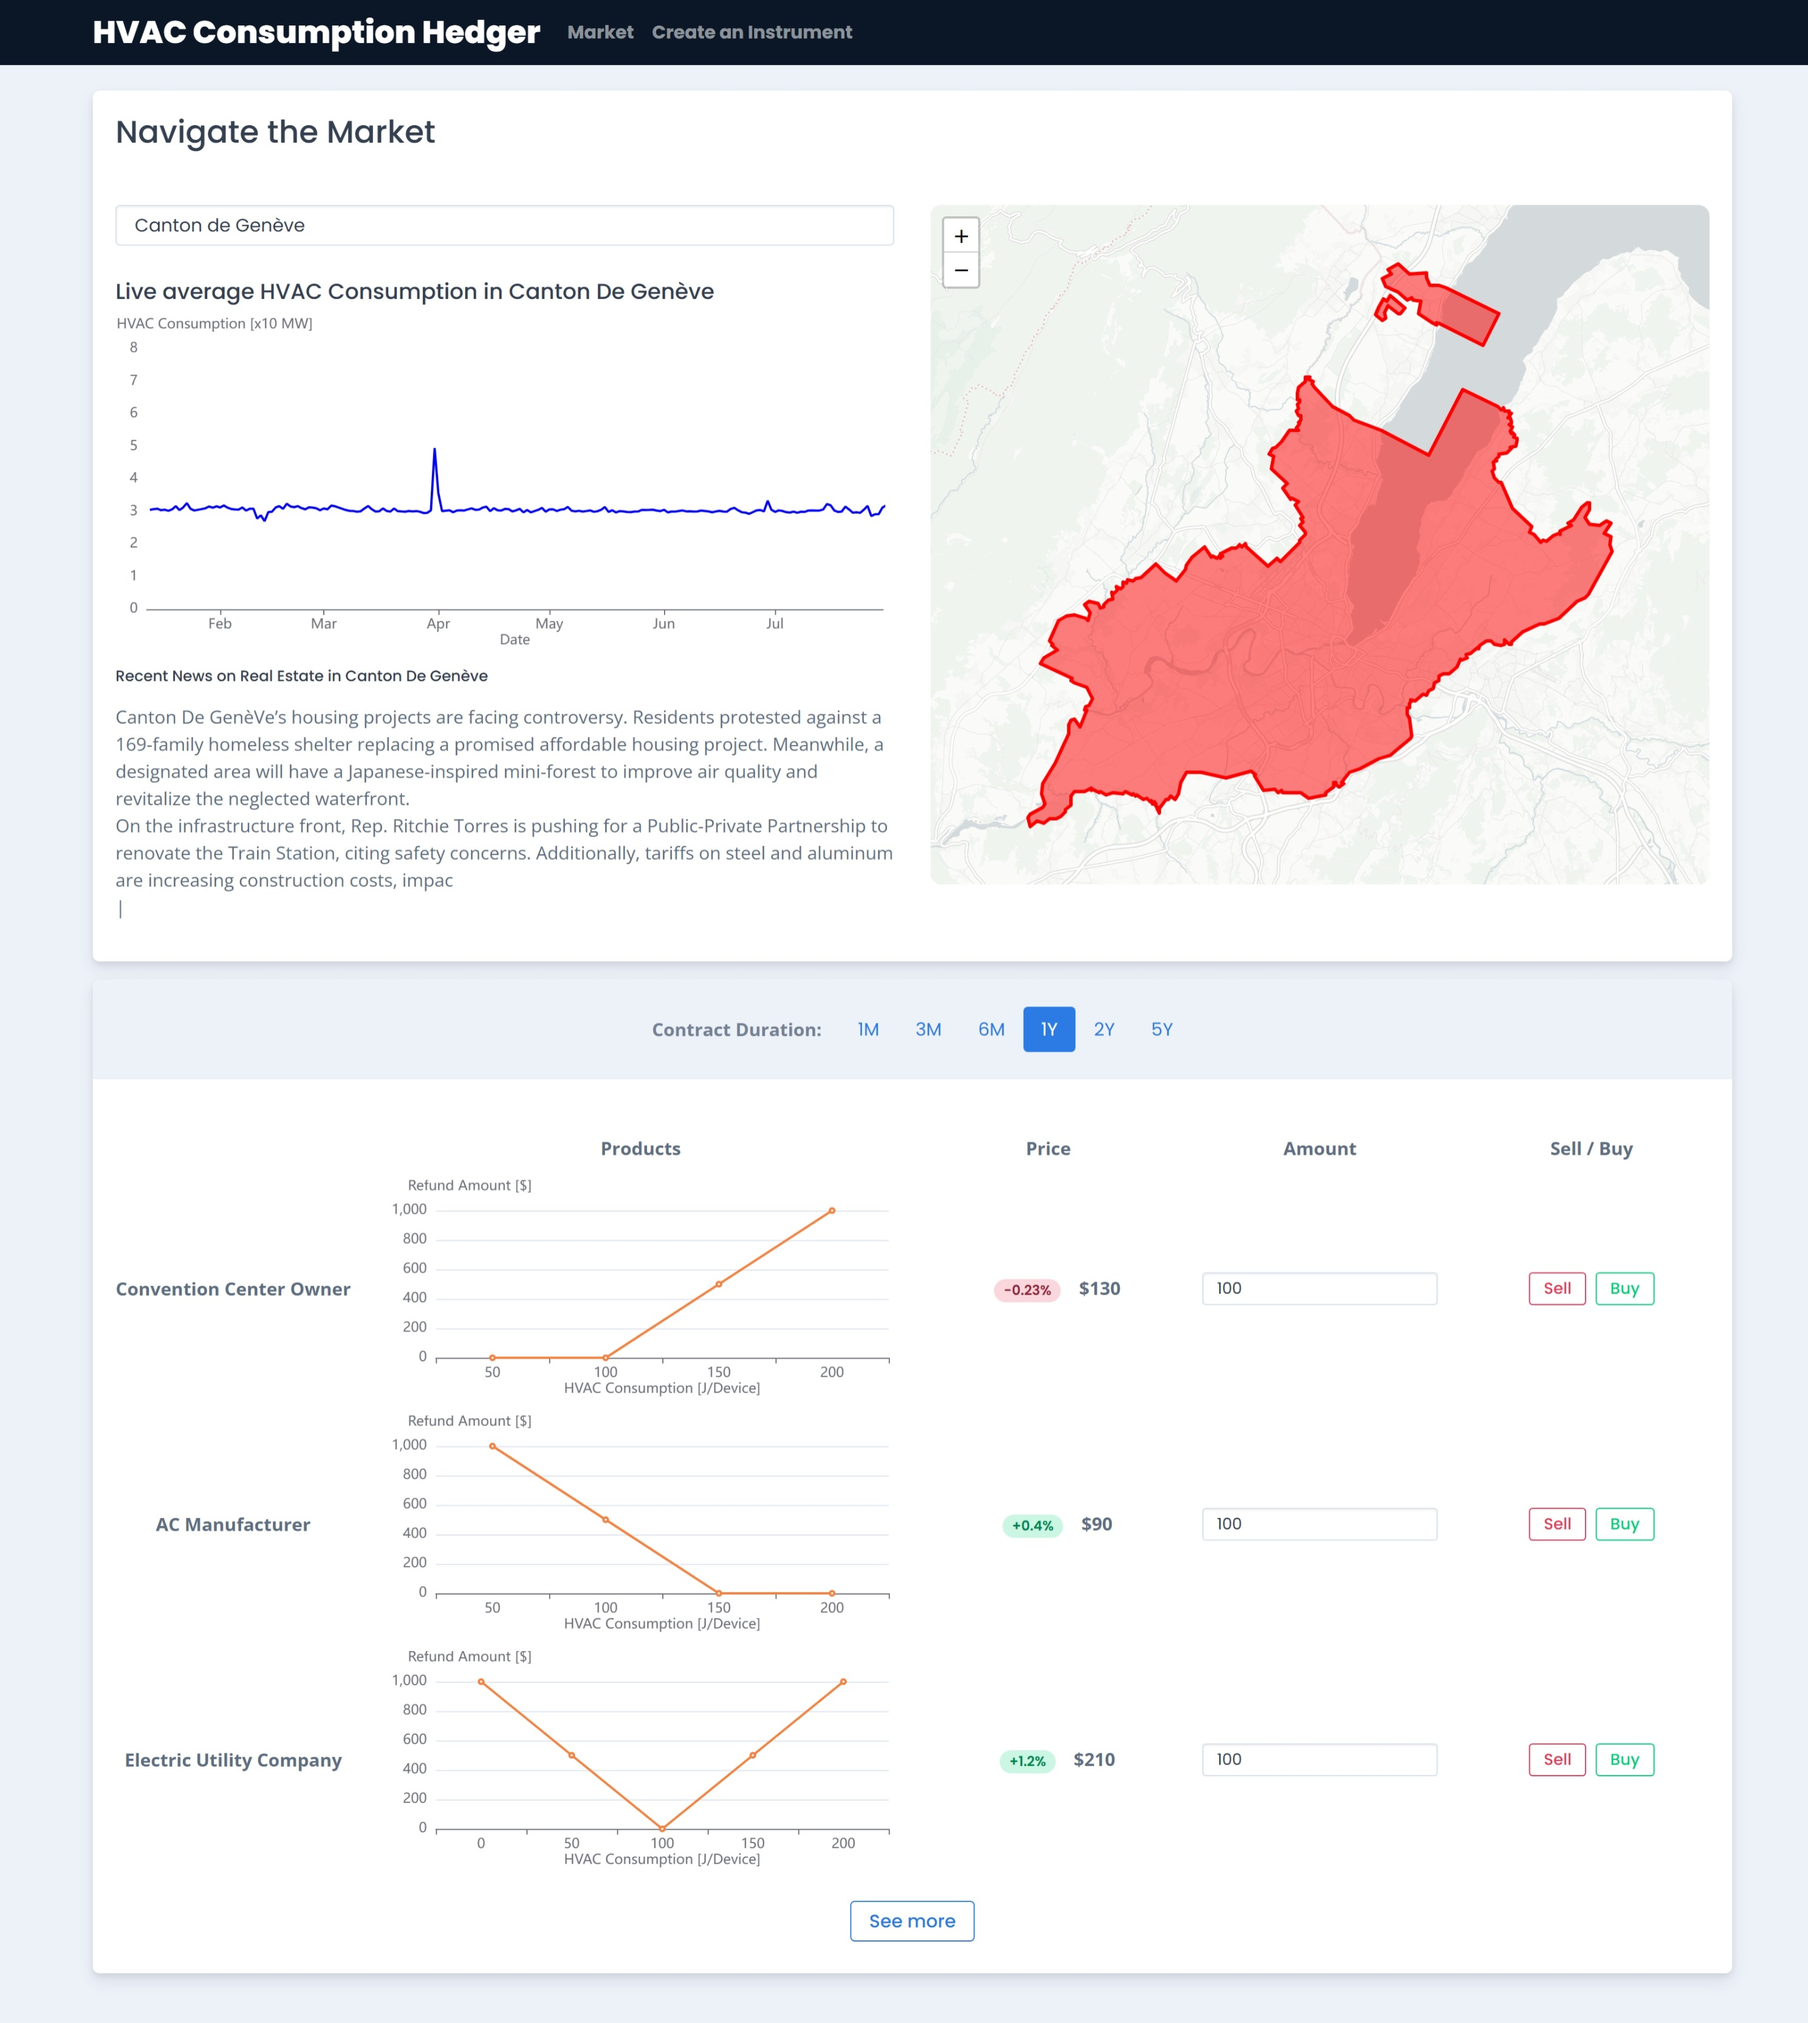
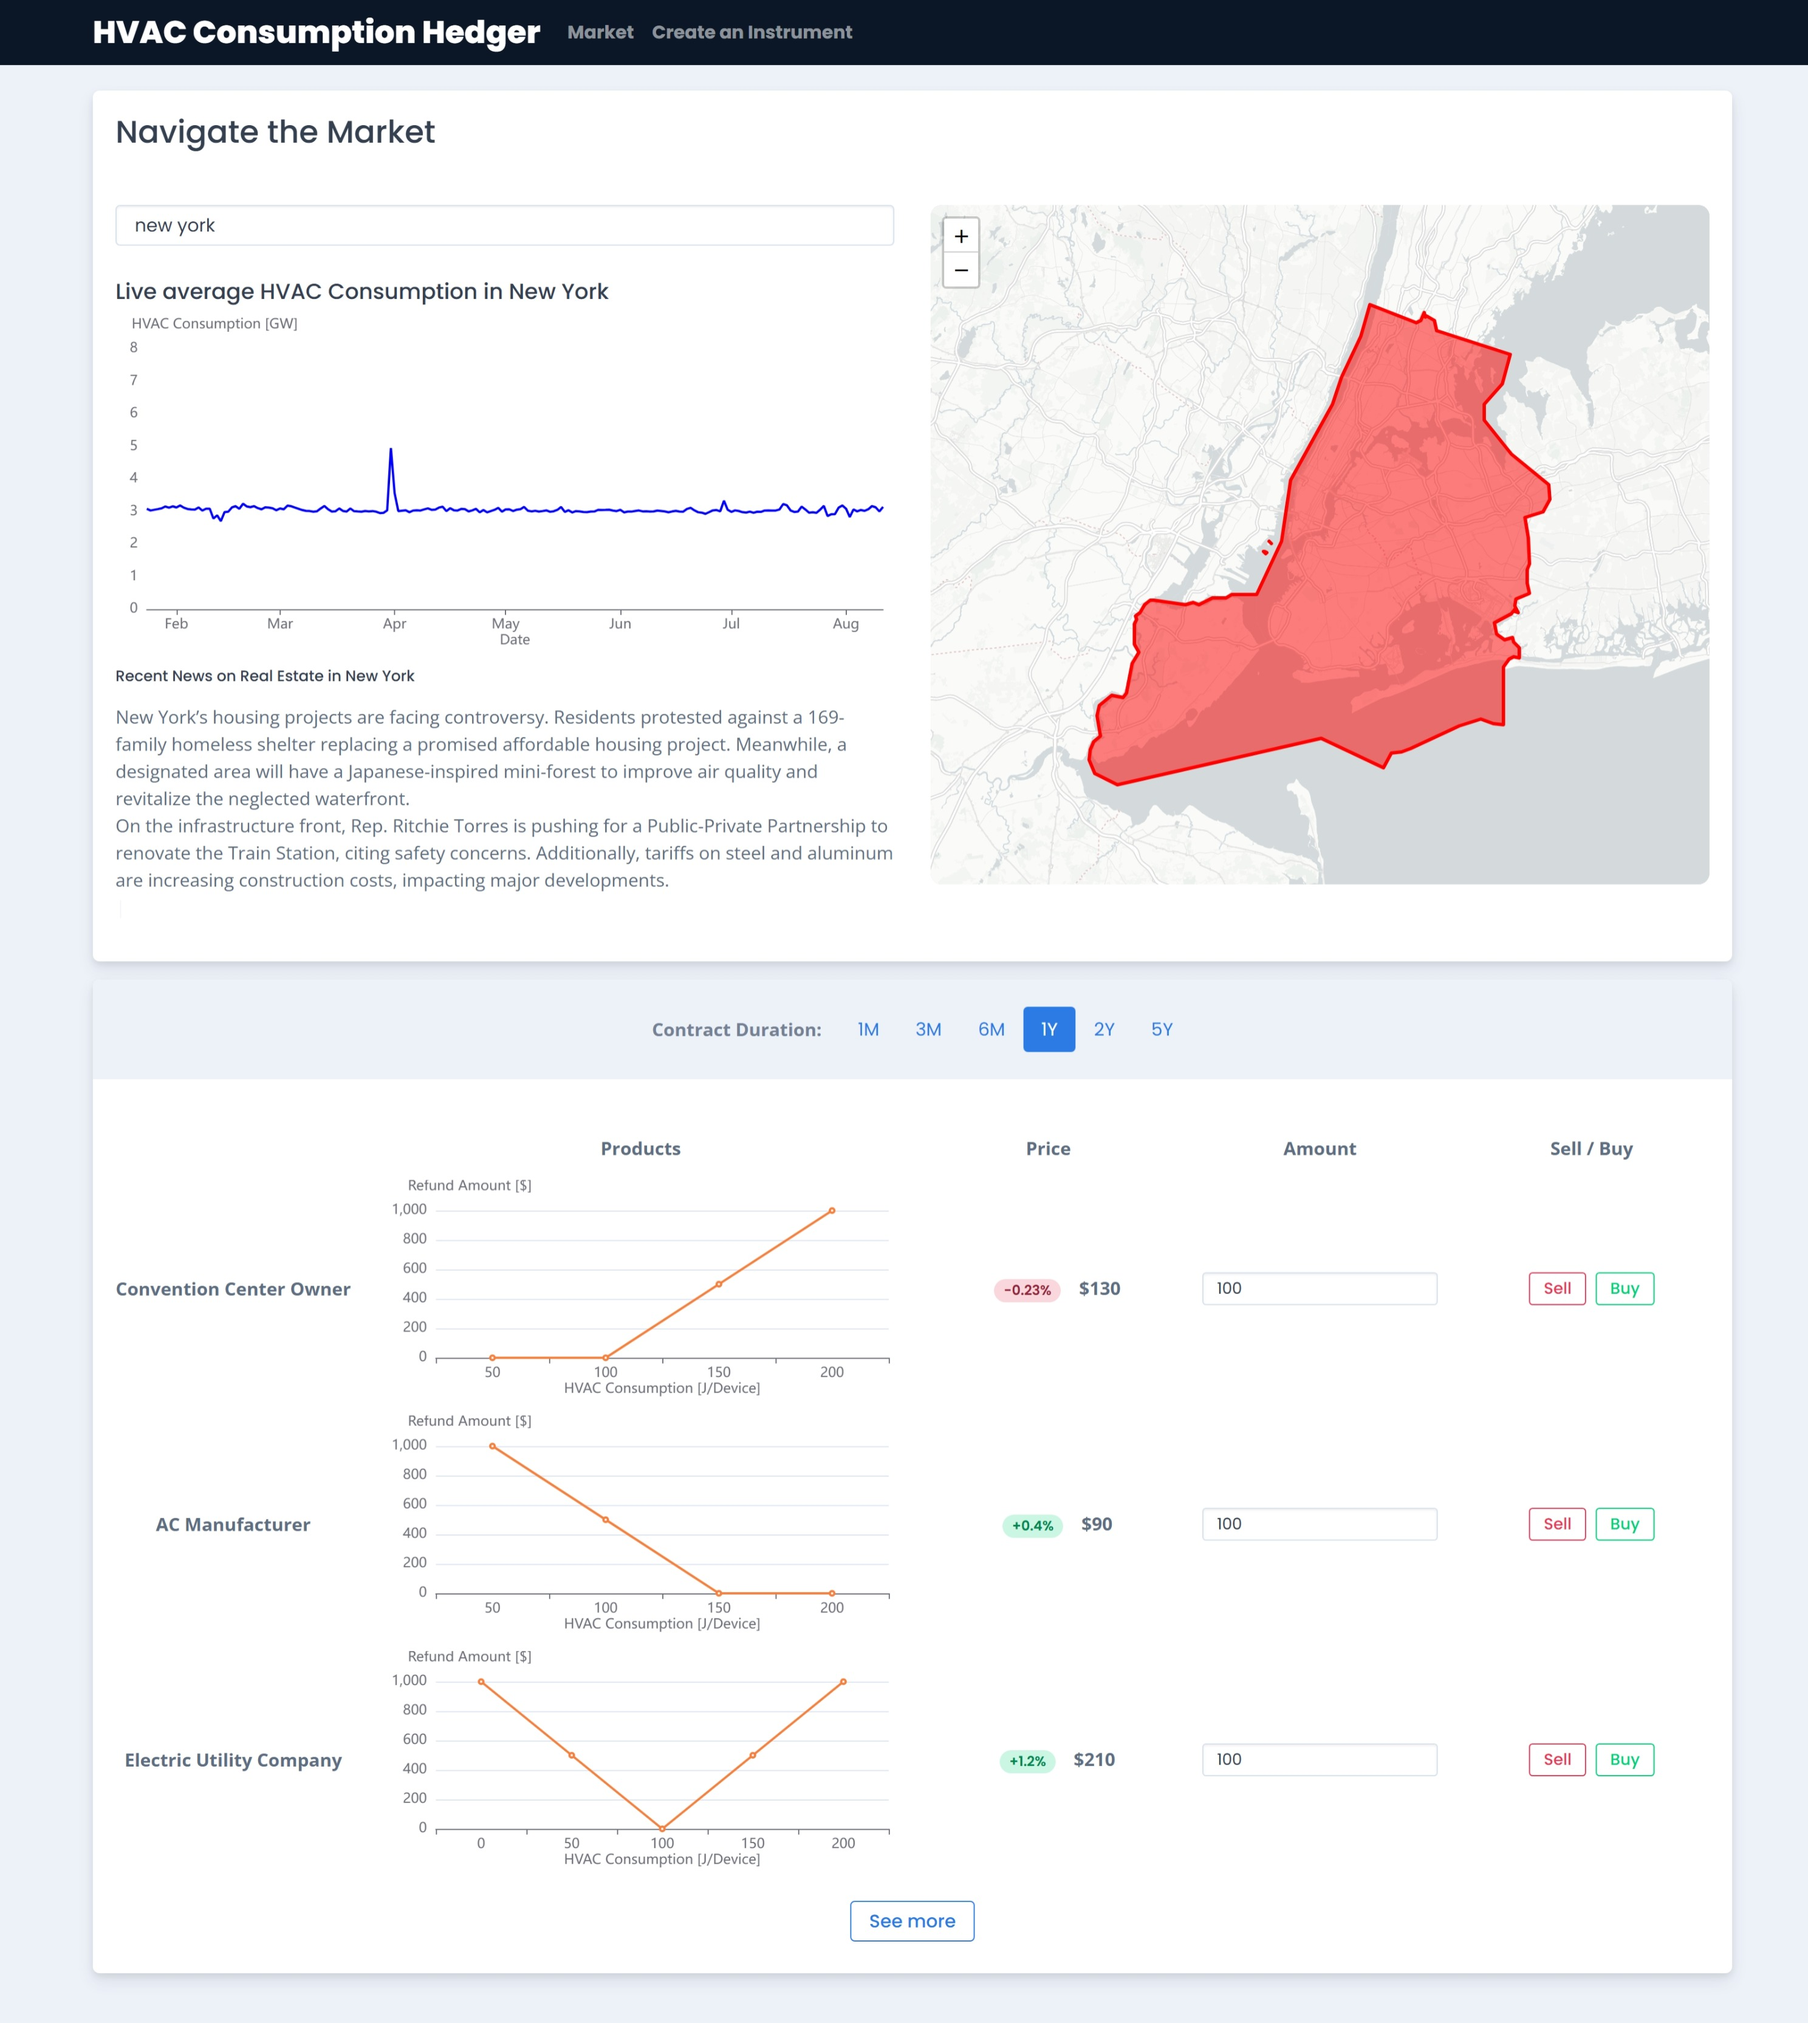
Update Readme

diff --git a/readme.md b/readme.md
@@ -31,7 +31,7 @@ We propose a data-driven financial model that transforms Belimo’s HVAC sensor 
 
 3. Risk Payouts: If predefined conditions (e.g., excessive cooling costs) are met, businesses receive payouts to offset increased energy expenditures.
 
-4. Monetization: Belimo earns a commission for each data-backed financial contract executed through the trading platform. Either Belimo constructs it's own trading platform, either it sells its oracle data to a company specialized in matching clients for derivatives contracts. An example of such a platform is given in `demo/main.html` (see below).
+4. Monetization: Belimo earns a commission for each data-backed financial contract executed through the trading platform. Either Belimo constructs it's own trading platform, either it sells its oracle data to a company specialized in matching clients for derivatives contracts. An example of such a platform is given in `demo/main.html` (see below an example with illustrative data).
 
 ![App Example](imgs/app.jpeg)
 
